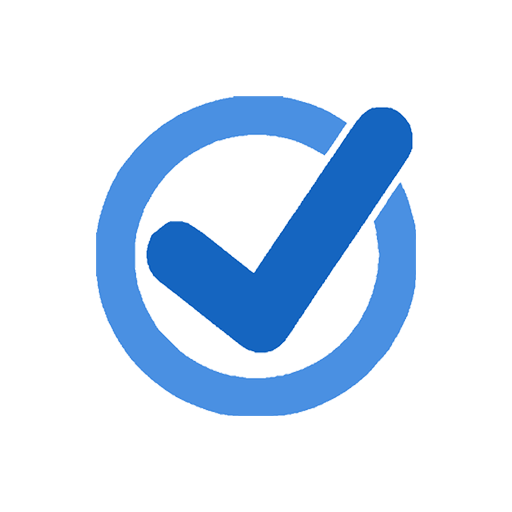
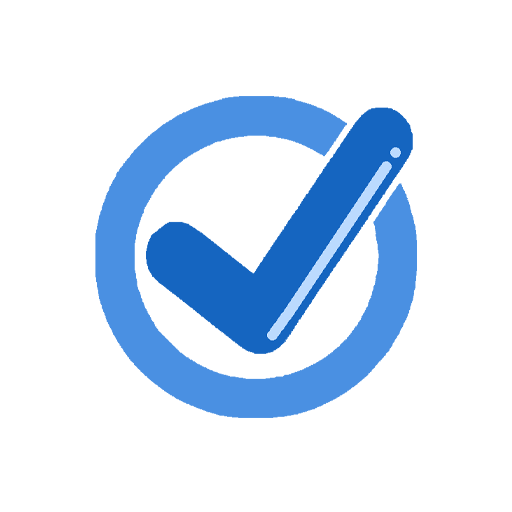
Fix immagini con riflesso

diff --git a/assets/js/utils.js b/assets/js/utils.js
@@ -1,3 +1,3 @@
-export const APP_VERSION = "1.7.0"
+export const APP_VERSION = "1.7.1"
 export const SUPPORT_EMAIL = "matteosteri+tripchecklist@gmail.com";
 export const PLAY_STORE_URL = "";

diff --git a/service-worker.js b/service-worker.js
@@ -1,4 +1,4 @@
-const CACHE_NAME="1.7.0"
+const CACHE_NAME="1.7.1"
 
 const urlsToCache=[
 
